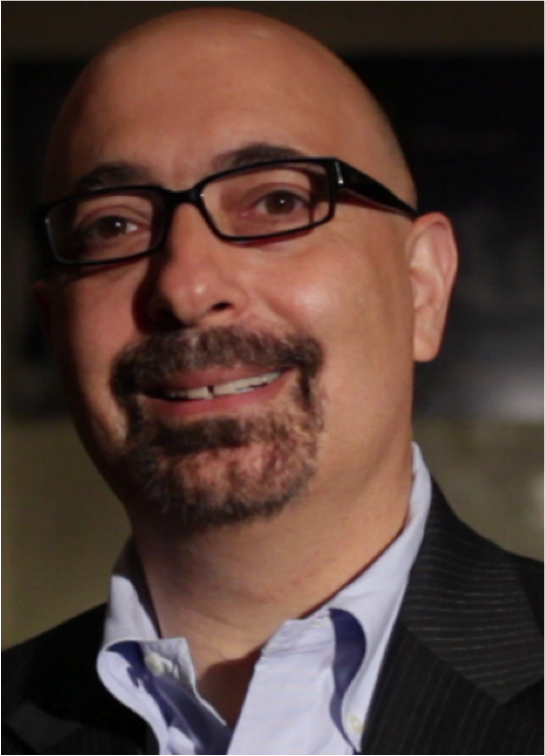
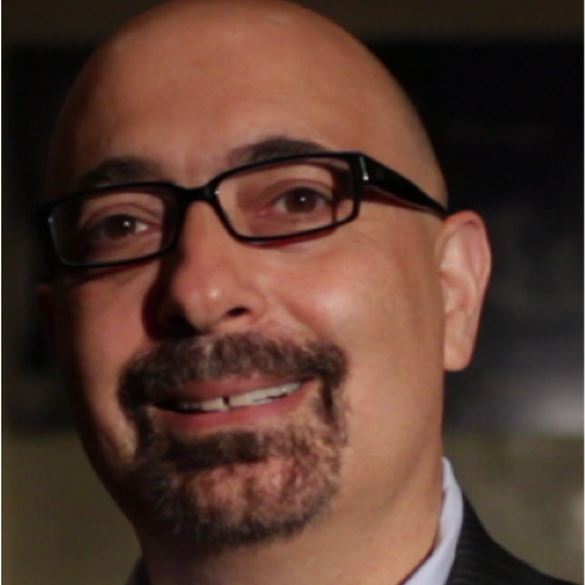
Update image sizes, add is_break to defaults.

diff --git a/_layouts/schedule.html b/_layouts/schedule.html
@@ -12,12 +12,10 @@ layout: default
       {{content}}
     </div>
   </section>
-  <section class="row">
-    {% for day in days %}
-      {% assign day_index = forloop.index %}
-      {% assign blocks = presentations | where: 'day', day_index %}
-
-      <div>{{presentation.relative_directory}}</div>
+  {% for day in days %}
+    {% assign day_index = forloop.index %}
+    {% assign blocks = presentations | where: 'day', day_index %}
+      <div class="row">
         <header class="col-sm-12 Day">
           <div class="row">
             <div class="col-xs-4">
@@ -33,14 +31,12 @@ layout: default
             </div>
           </div>
         </header>
-        {{day}}
-
-        {% for presentation in blocks %}
-          {% assign speaker = speakers | where_exp: 'item', 'item.title
-          contains presentation.speaker' | first %}
-          <div class="
-            col-sm-12
-            Schedule-block
+      </div>
+      {% for presentation in blocks %}
+        {% assign speaker = speakers | where_exp: 'item', 'item.title
+        contains presentation.speaker' | first %}
+        <div class="row">
+          <div class="col-sm-12 Schedule-block
             {% if presentation.is_break %}
                Schedule-block--break
             {% endif %}">
@@ -50,7 +46,7 @@ layout: default
               </div>
               <div class="col-sm-2">
                 {% if speaker %}
-                  <img src="http://placehold.it/200x200" class="img-fluid">
+                  <img src="{{speaker.speaker_image}}" class="img-fluid">
                 {% endif %}
               </div>
               <div class="col-sm-8">
@@ -68,11 +64,14 @@ layout: default
                 {% endif %}
               </div>
             </div>
+            <hr/>
           </div>
-        {% endfor %}
+        </div>
+      {% endfor %}
+      <div class="row">
         <div class="col-sm-12">
           <hr class="Schedule-divider clearfix"/>
         </div>
-    {% endfor %}
-  </section>
+      </div>
+  {% endfor %}
 </div>

diff --git a/_layouts/speakers.html b/_layouts/speakers.html
@@ -1,7 +1,6 @@
 ---
 layout: default
 ---
-
 <div class="container-fluid">
   <div class="row">
     <div class="col-sm-12">
@@ -14,7 +13,7 @@ layout: default
       {% assign clear_row = forloop.index | modulo: 2 %}
       <div class="col-md-6 col-lg-6 Speaker">
         <div class="Speaker-header">
-          <img src="http://placehold.it/1110x600" class="img-fluid">
+          <img src="{{speaker.speaker_image}}" class="img-fluid">
           <div class="Speaker-title">
             <div>
               {{ speaker.title }}

diff --git a/_sass/_schedule.scss b/_sass/_schedule.scss
@@ -1,5 +1,4 @@
 .Day {
-  margin: 15px 0;
   color: #137b9b;
 
   hr {
@@ -19,15 +18,11 @@
 }
 
 .Schedule-block {
-  margin-bottom: 10px;
-  padding: {
-    top: 10px;
-    bottom: 10px;
+  &.Schedule-block--break {
+    color: $brand-secondary-color;
+    position: relative;
   }
 
-  &.Schedule-block--break {
-    background-color: #eee;
-  }
 }
 
 .Schedule-presentation-title {
